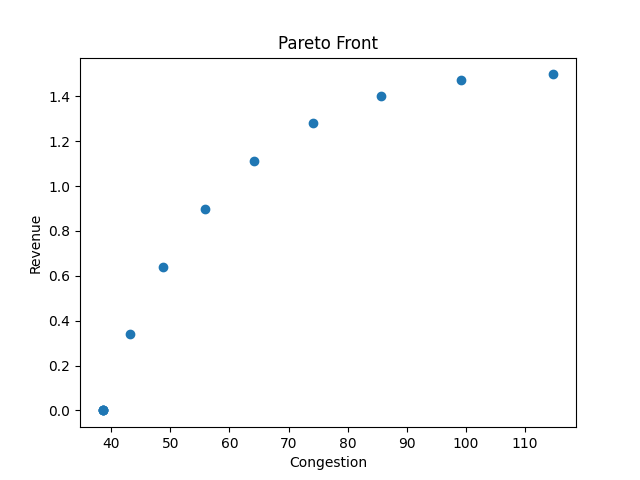
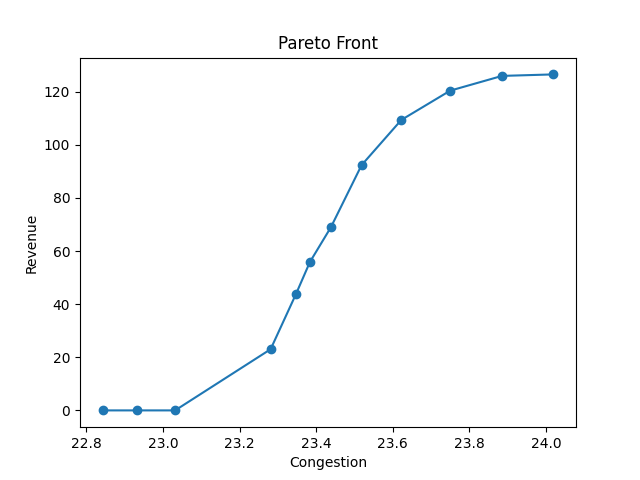
refined pareto plots and updated system paremeters

diff --git a/script.py b/script.py
@@ -10,8 +10,8 @@ from tqdm import tqdm
 GAMMA_BAR = 8 #10
 BETA_BAR = 1.5 #300
 A = 2.5
-D = GAMMA_BAR * BETA_BAR
-CAPACITY = 115.13 / 30
+D = 115.13 #GAMMA_BAR * BETA_BAR
+CAPACITY = 140
 TIME = 22
 ## One set of working parameters: GAMMA_BAR = 1, BETA_BAR = 1, A = 3, D = 10, MU = 50, rho = 0.8, tau = 0.1
 
@@ -141,14 +141,14 @@ def get_congestion(x1, x2, x3, rho):
     return x3 * c_o(x3, 1 - rho) + (x1 + x2) * c_h(x1, x2, rho)
 
 def get_revenue(x1, tau):
-    return x1 * tau
+    return x1 * tau * D
 
 rho_lst = [1/4, 2/4, 3/4] #[0.1, 0.3, 0.5, 0.7, 0.8]
 tau_lst = np.arange(0, 10, 0.5)[1:] #np.linspace(0, TAU_BAR, num = 6)[1:]
 arg_lst = list(itertools.product(rho_lst, tau_lst))
 dct = {"rho": [], "tau": [], "x1": [], "x2": [], "x3": [], "loss": [], "regime": [], "congestion": [], "revenue": []}
 for (rho, tau) in tqdm(arg_lst):
-    (x1, x2, x3), regime_type, loss_arr = solve_regime(rho, tau, max_itr = 10000, eta = 1e-2, eps = 1e-7, decay_sched = 2000, eta_min = 1e-8)
+    (x1, x2, x3), regime_type, loss_arr = solve_regime(rho, tau, max_itr = 10000, eta = 1e-1, eps = 1e-7, decay_sched = 2000, eta_min = 1e-8)
     congestion = get_congestion(x1, x2, x3, rho)
     revenue = get_revenue(x1, tau)
     dct["rho"].append(rho)

diff --git a/visualize.py b/visualize.py
@@ -3,6 +3,7 @@ import pandas as pd
 import matplotlib.pyplot as plt
 
 df = pd.read_csv("results.csv")
+df = df.sort_values("revenue", ascending = True)
 pareto = []
 pareto_sep = []
 for i in range(df.shape[0]):
@@ -19,7 +20,6 @@ for i in range(df.shape[0]):
             is_pareto = 0
             if rho_i == rho_j:
                 is_pareto_sep = 0
-            break
     pareto.append(is_pareto)
     pareto_sep.append(is_pareto_sep)
 df["pareto"] = pareto
@@ -27,6 +27,7 @@ df["pareto_sep"] = pareto_sep
 
 df_pareto = df[df["pareto"] == 1]
 plt.scatter(df_pareto["congestion"], df_pareto["revenue"])
+plt.plot(df_pareto["congestion"], df_pareto["revenue"])
 plt.xlabel("Congestion")
 plt.ylabel("Revenue")
 plt.title("Pareto Front")
@@ -37,6 +38,7 @@ plt.close()
 for rho in [0.25, 0.5, 0.75]:
     df_sub = df[(df["rho"] == rho) & (df["pareto_sep"] == 1)]
     plt.scatter(df_sub["congestion"], df_sub["revenue"], label = f"$\\rho = {rho}$")
+    plt.plot(df_sub["congestion"], df_sub["revenue"])
 plt.xlabel("Congestion")
 plt.ylabel("Revenue")
 plt.title("Pareto Front")
